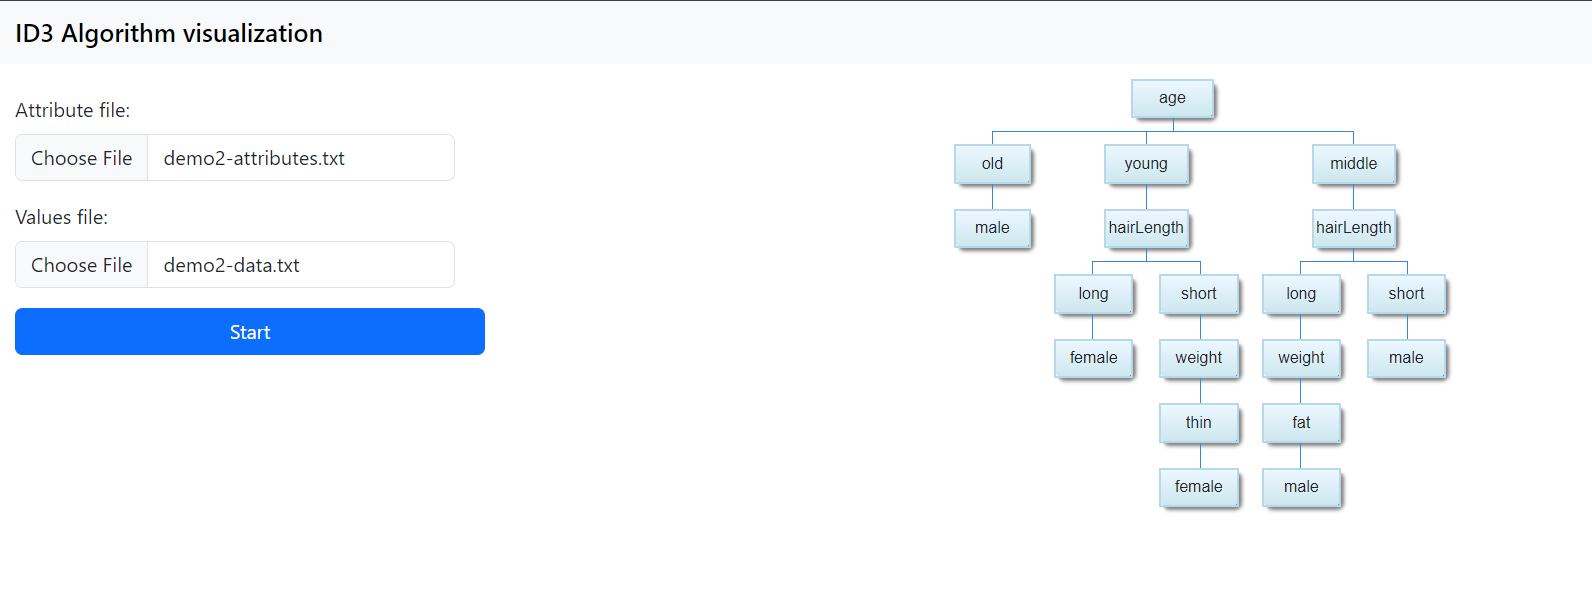
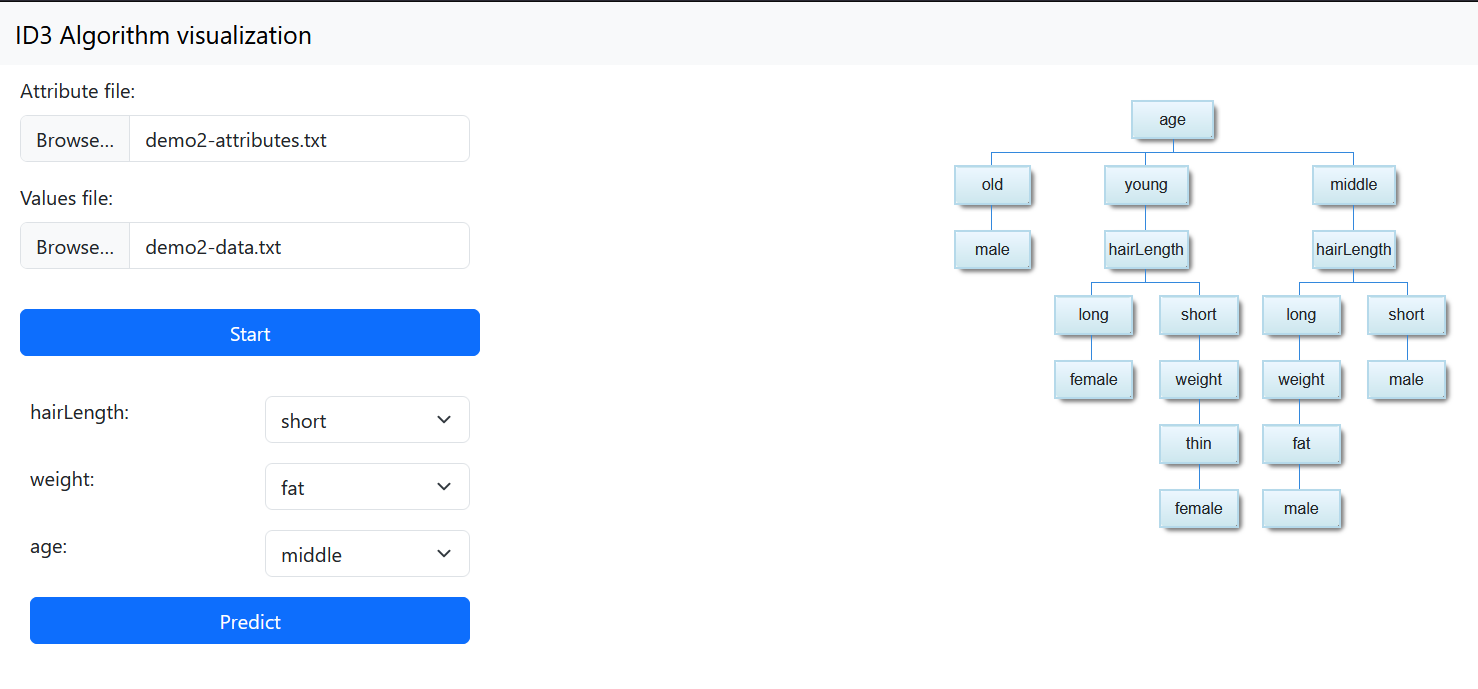
Done: update docs

diff --git a/docs/user_guide.md b/docs/user_guide.md
@@ -20,3 +20,9 @@ E.j. [Fichero datos](./demo-data.txt)
 ### Ejecución
 
 Una vez seleccionados ambos ficheros y ejecutado el programa a través del botón provisto (ambos ficheros son obligatorios) se mostrará una representación visual mediante un grafo, con la predicción realizada.
+
+### Predicción
+
+![Prediction](../images/prediction.png)
+
+La sección de predicción se genera automáticamente basada en los ficheros proporcionados y permite categorizar un caso usando las reglas generadas. El resultado se muestra debajo.

diff --git a/docs/memoria.md b/docs/memoria.md
@@ -97,7 +97,15 @@ Contiene los estilos de la página web (como por ejemplo colores  y reglas de di
 
 ## Ejemplos
 ### Demo 1 - Jugar dependiendo de tiempo
+#### Modelo
 ![Demo 1](../images/demo.png)
 
+#### Predicción
+![Prediction 1](../images/prediction1.png)
+
 ### Demo 2 - Sexo dependiendo de atributos físicos
+#### Modelo
 ![Demo 2](../images/demo2.png)
+
+#### Predicción
+![Prediction 2](../images/prediction2.png)
